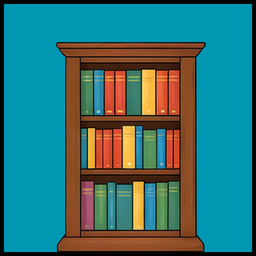
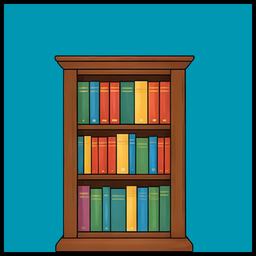
feature: generated image

diff --git a/cv/ocr.py b/cv/ocr.py
@@ -13,6 +13,8 @@ MIN_CONFIDENCE = 50
 VICTIM_NAME = "Josh"
 
 OBJECT_NAMES = {
+    "bed": "bed",
+    "beds": "bed",
     "shelf": "shelf",
     "shelves": "shelf",
     "plant": "plant",
@@ -45,7 +47,7 @@ ORDINAL_GRID_INDEXES = {
 }
 
 NAME_PATTERN = r"[A-Z][A-Za-z'-]*"
-OBJECT_PATTERN = r"shel(?:f|ves)|plants?|carpets?|chairs?|tables?"
+OBJECT_PATTERN = r"beds?|shel(?:f|ves)|plants?|carpets?|chairs?|tables?"
 ROOM_PATTERN = r"yellow|blue|green|orange"
 OWNER_PATTERN = re.compile(
     rf"\b(?P<person>{NAME_PATTERN})\s+"
@@ -283,7 +285,7 @@ def _parse_person_clues(person, clue_text):
 def _exclusive_objects(clue_text):
     """Return objects that the clue says only this person can be on."""
     matches = re.finditer(
-        rf"\b(?:the\s+)?only\s+person\s+(?:sitting\s+)?"
+        rf"\b(?:the\s+)?only\s+(?:person|one)\s+(?:sitting\s+)?"
         rf"(?:on|on\s+top\s+of)\s+(?:a|an|the)?\s*({OBJECT_PATTERN})\b",
         clue_text,
         re.IGNORECASE,

diff --git a/config.py b/config.py
@@ -4,7 +4,7 @@ from pathlib import Path
 PROJECT_DIR = Path(__file__).resolve().parent
 DATA_DIR = PROJECT_DIR / "data"
 
-IMAGE_PATH = DATA_DIR / "puzzle1.png"
+IMAGE_PATH = DATA_DIR / "puzzle2.png"
 TEMPLATE_DIR = DATA_DIR / "templates"
 SOLUTION_IMAGE_PATH = DATA_DIR / f"{IMAGE_PATH.stem}_solved.png"
 GRID_SIZE = 6
